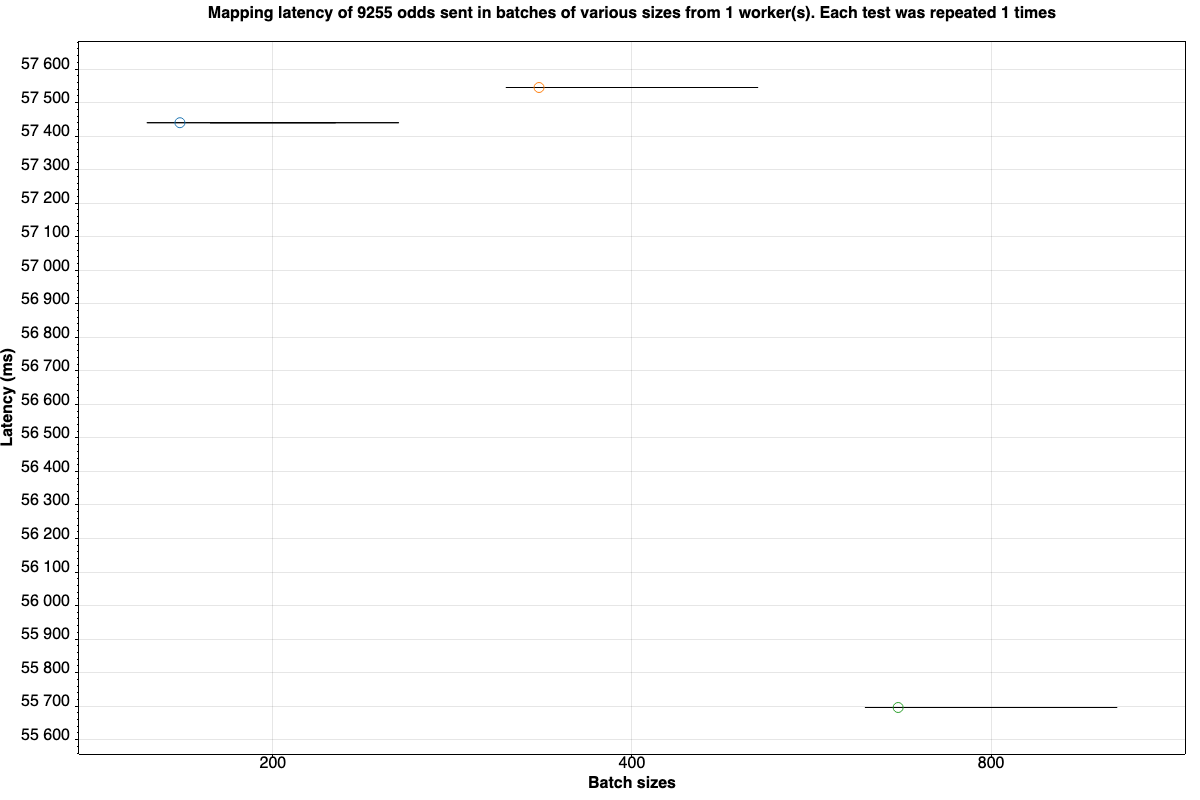
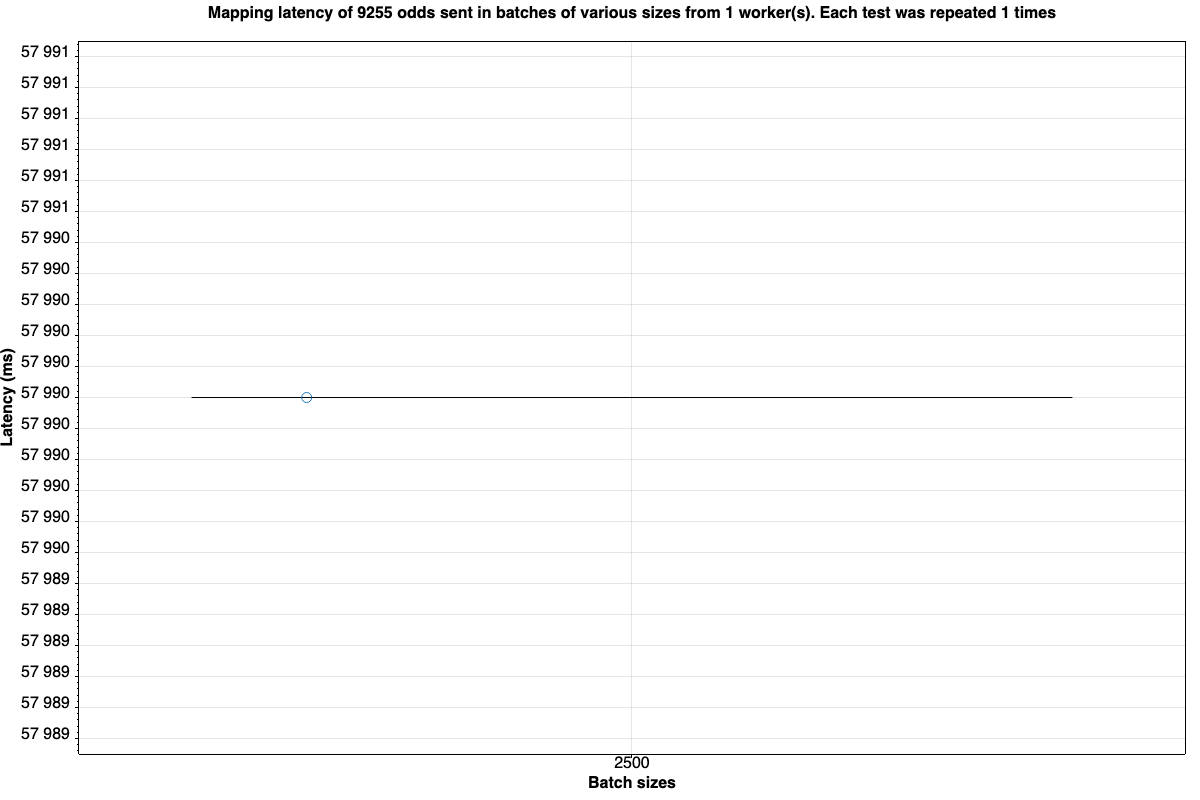
backup

diff --git a/load_generator/Rebelbetting.Orleans.Kubernetes/Rebelbetting.Orleans.Kubernetes.LoadGenerator/Program.cs b/load_generator/Rebelbetting.Orleans.Kubernetes/Rebelbetting.Orleans.Kubernetes.LoadGenerator/Program.cs
@@ -83,9 +83,9 @@ var orleansPerformanceTests = new OrleansPerformanceTests(ip, port);
 // var chunkSize = 50;
 // var numBoxes = 6;
 
-var numIterations = 1;
-var chunkSize = 100;
-var numBoxes = 1;
+var numIterations = 5;
+var chunkSize = 50;
+var numBoxes = 6;
 
 double[] tp = Enumerable.Range(0, numBoxes).Select(x => (double) x).ToArray();
 string[] tl = new string[numBoxes];
@@ -127,6 +127,13 @@ saveLocation = "./figures/MakePopulationPlotMapOddsNWorkers.png";
 title = $"Mapping latency of {odds.Length} odds sent in parallel batches of various sizes from {numThreads} worker(s). Each test was repeated {numIterations} times";
 orleansPerformanceTests.MakePopulationPlotMapOddsNWorkers(odds, numIterations, chunkSize, numBoxes, tp, tl, 
     showMarker, xLabel, yLabel, saveLocation, title, numThreads);
+
+
+// var oddsChunk = odds.Chunk(2000).ToArray();
+// saveLocation = "./figures/MakePopulationPlotMapOddsNWorkers.png";
+// title = $"Mapping latency of {oddsChunk[0].Length} odds sent in parallel batches of various sizes from {numThreads} worker(s). Each test was repeated {numIterations} times";
+// orleansPerformanceTests.MakePopulationPlotMapOddsNWorkers(oddsChunk[0], numIterations, chunkSize, numBoxes, tp, tl, 
+//     showMarker, xLabel, yLabel, saveLocation, title, numThreads);
     
     
 watch.Stop();

diff --git a/load_generator/Rebelbetting.Orleans.Kubernetes/Rebelbetting.Orleans.Kubernetes.LoadGenerator/parsing/ContractOddsMappingResult.cs b/load_generator/Rebelbetting.Orleans.Kubernetes/Rebelbetting.Orleans.Kubernetes.LoadGenerator/parsing/ContractOddsMappingResult.cs
@@ -1,0 +1,38 @@
+using System.Runtime.Serialization;
+using Orleans;
+
+namespace Rebelbetting.Orleans.Contracts.Contracts;
+
+[GenerateSerializer]
+[DataContract]
+public record ContractOddsMappingResult()
+{
+    [Id(0)]
+    [DataMember] 
+    public required int NumOddsSuccessfullyMapped { get; set; } = -1;
+    
+    [Id(1)]
+    [DataMember] 
+    public required int NumTotalOdds { get; set; } = -1;    
+    
+    [Id(2)]
+    [DataMember] 
+    public required long FindMasterGrainsTime { get; set; } = -1;
+    
+    [Id(3)]
+    [DataMember] 
+    public required long FindMatchGrainsTime { get; set; } = -1;
+    
+    [Id(4)]
+    [DataMember] 
+    public required Dictionary<string, int> MappingExceptionMessagesDictionary { set; get; }
+    
+    
+    public override string ToString()
+    {
+        return $"Successfully mapped {NumOddsSuccessfullyMapped} out of {NumTotalOdds}\n" +
+               $"FindMasterGrainsTime: {FindMasterGrainsTime} ms\n" +
+               $"FindMatchGrainsTime: {FindMatchGrainsTime} ms\n" +
+               $"Number of unique exceptions: {MappingExceptionMessagesDictionary.Count}";
+    }
+}
